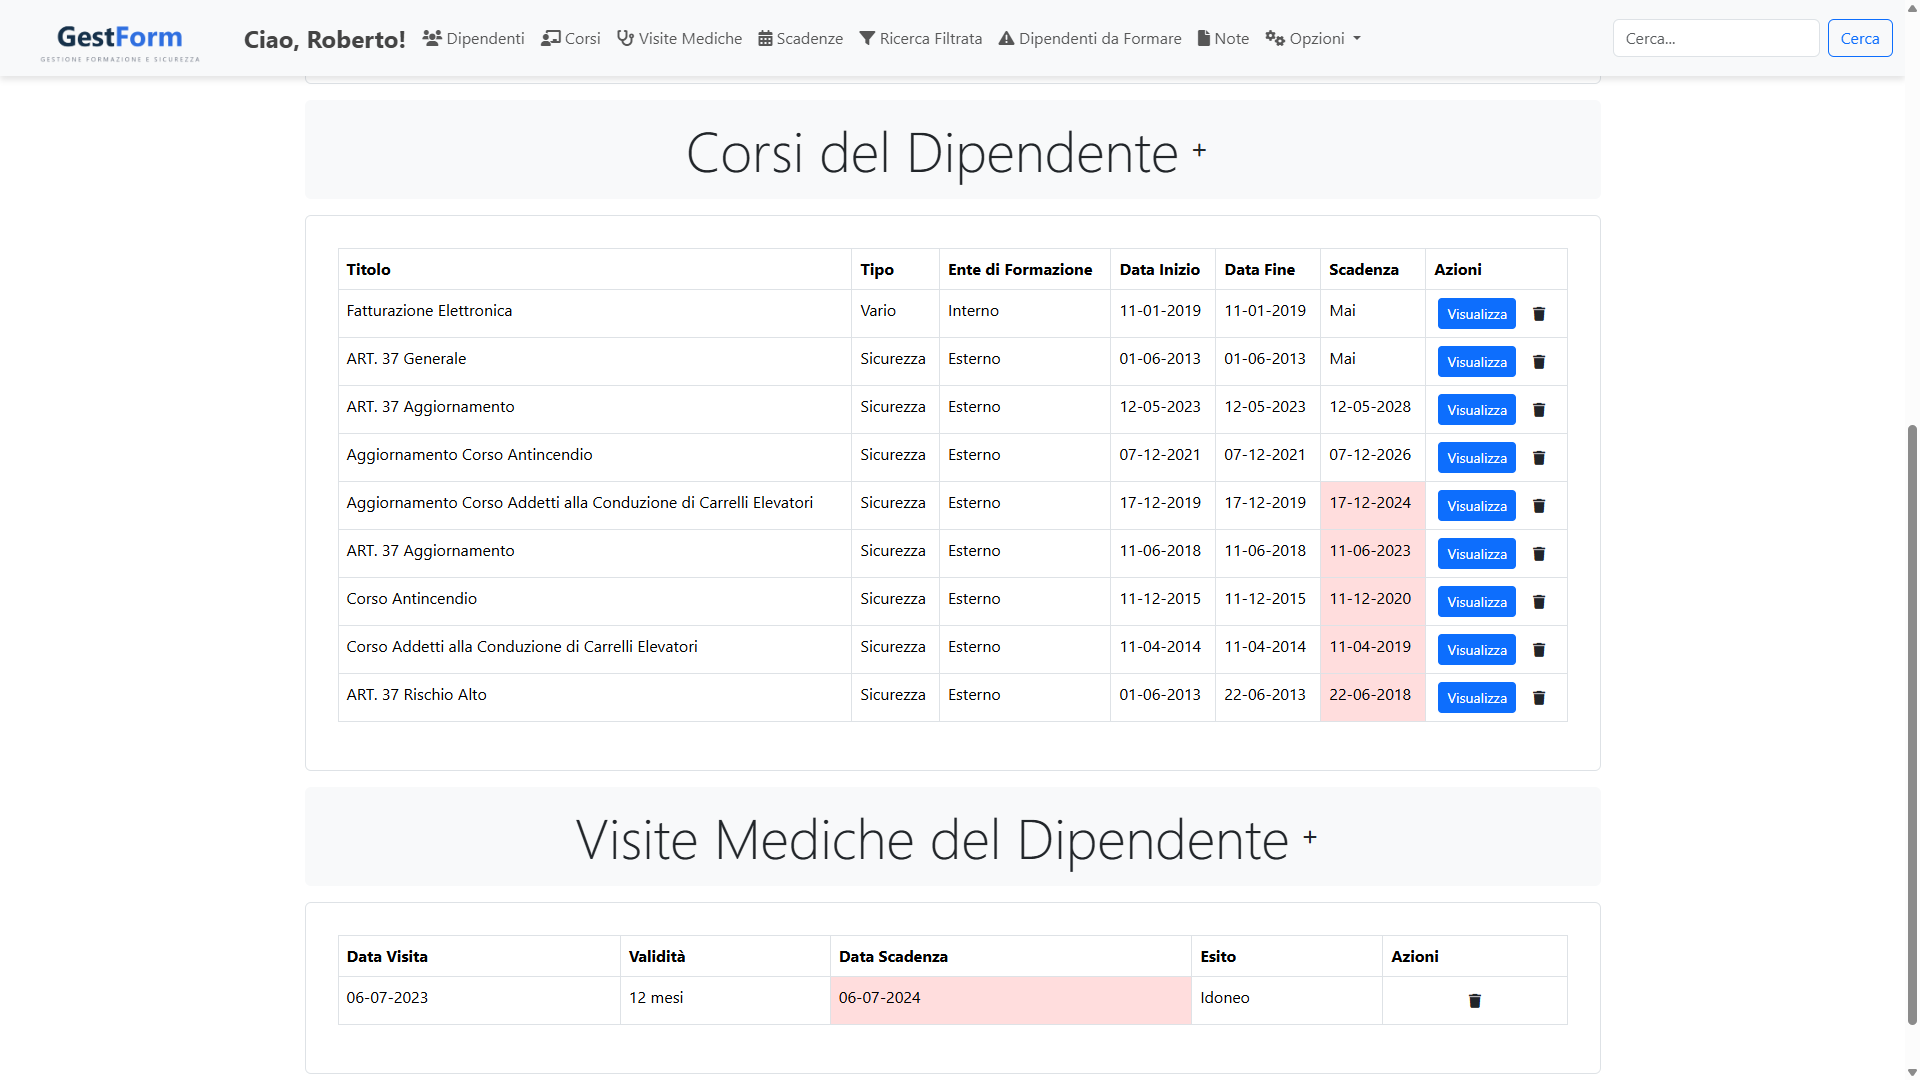
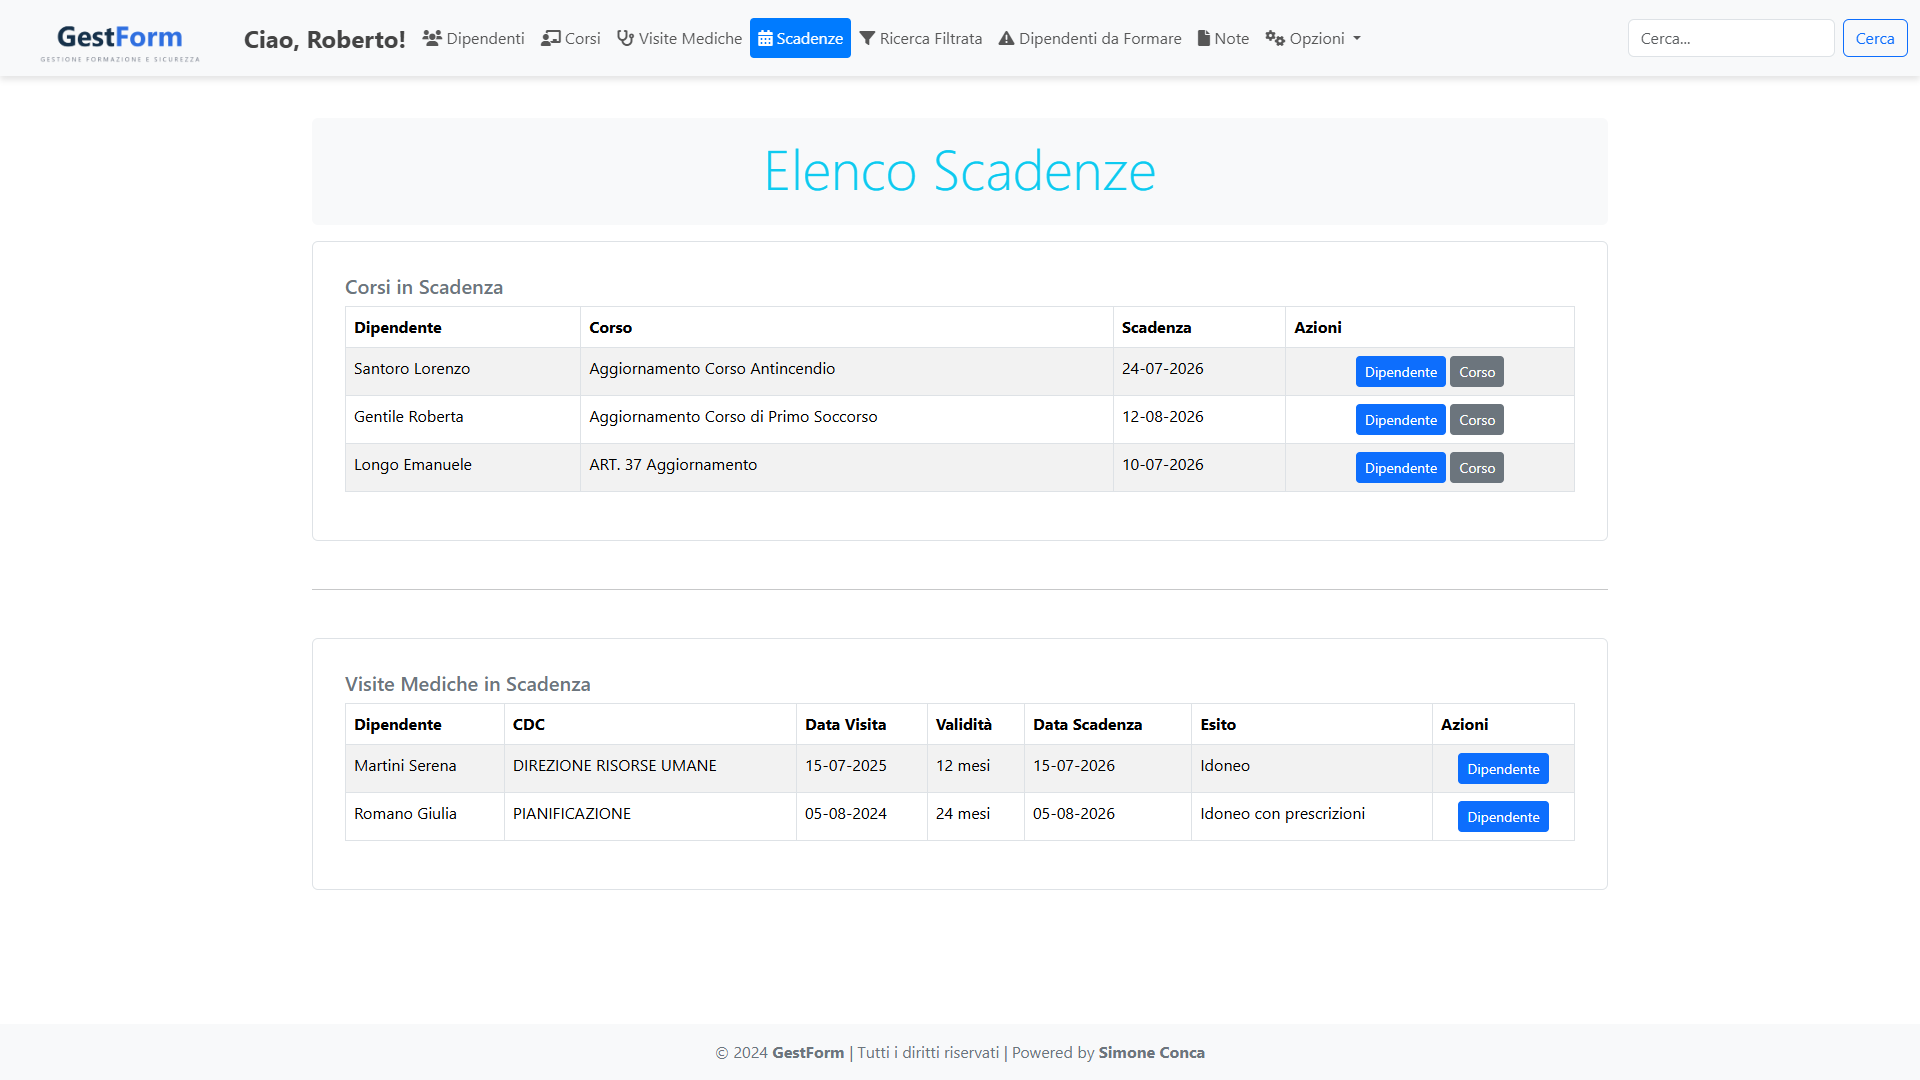
GestForm: aggiunta la funzione scadenze alla galleria
La pagina scadenze.php ora mostra dati (3 corsi e 2 visite in scadenza
inseriti come esempio). Galleria aggiornata a 6 schermate: home, scheda
dipendente, scadenzario (Elenco Scadenze), dettaglio corso con stato
scadenze a colori, visite valide/scadute, backup. Tutto anonimizzato.

diff --git a/progetti/gestionale/index.html b/progetti/gestionale/index.html
@@ -141,8 +141,12 @@
             <figcaption>Scheda dipendente — anagrafica completa, con corsi e visite collegati</figcaption>
           </figure>
           <figure>
-            <img src="img/gest-scadenze.png" alt="GestForm — corsi e visite di un dipendente con le scadenze scadute evidenziate" loading="lazy">
-            <figcaption>Scadenze del dipendente — corsi e visite, con i titoli scaduti evidenziati in rosso</figcaption>
+            <img src="img/gest-scadenze.png" alt="GestForm — scadenzario con corsi e visite in scadenza" loading="lazy">
+            <figcaption>Scadenzario — i corsi e le visite in scadenza nei prossimi mesi, in un colpo d'occhio</figcaption>
+          </figure>
+          <figure>
+            <img src="img/gest-corso.png" alt="GestForm — dettaglio di un corso con gli iscritti e le scadenze" loading="lazy">
+            <figcaption>Dettaglio corso — gli iscritti con lo stato della scadenza: in regola, in scadenza (giallo), scaduto (rosso)</figcaption>
           </figure>
           <figure>
             <img src="img/gest-visite.png" alt="GestForm — elenco visite mediche valide e scadute" loading="lazy">
